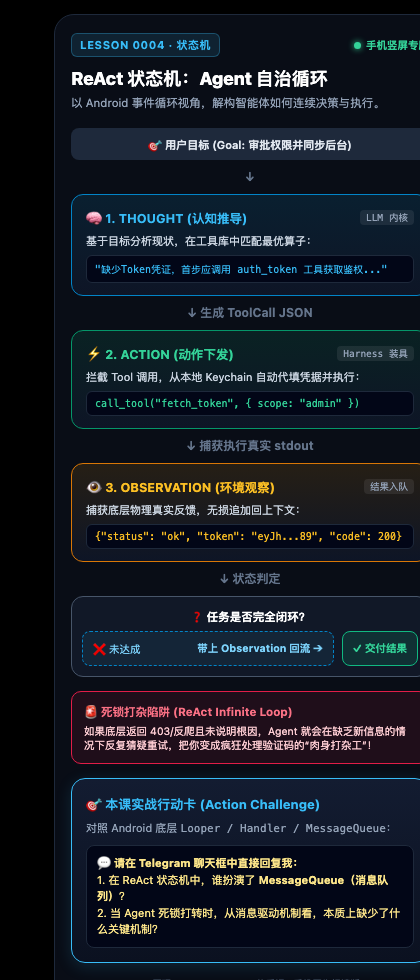
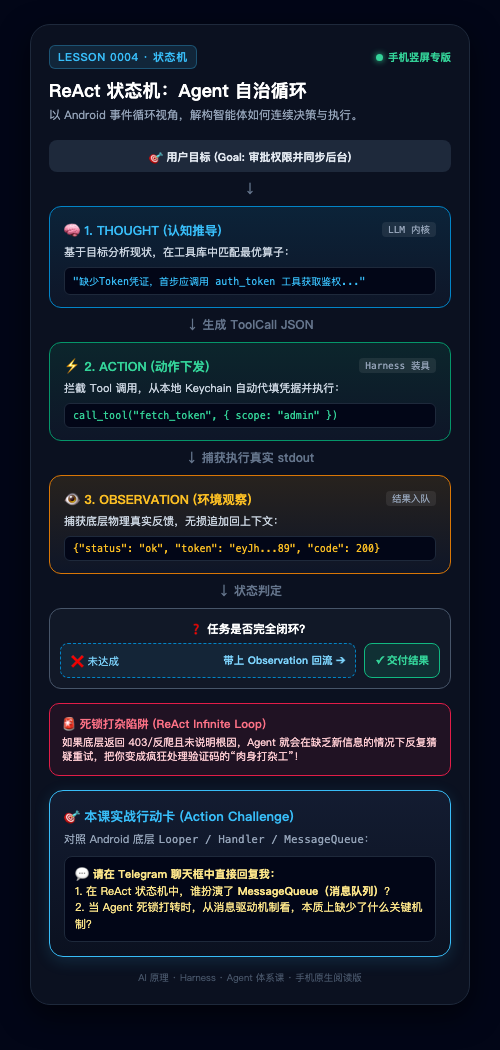
fix mobile card right padding and viewport margins

diff --git a/posters/0004-react-mobile.html b/posters/0004-react-mobile.html
@@ -6,20 +6,24 @@
   <link href="https://fonts.googleapis.com/css2?family=JetBrains+Mono:wght@400;500;600;700&display=swap" rel="stylesheet">
   <style>
     * { margin: 0; padding: 0; box-sizing: border-box; }
-    body {
-      background: #000000;
-      font-family: -apple-system, BlinkMacSystemFont, "SF Pro Text", "Segoe UI", Roboto, sans-serif;
-      color: #f8fafc;
-      width: 420px;
+    html, body {
+      background: #020617;
+      margin: 0;
+      padding: 0;
+      width: 100%;
+    }
+    .wrapper {
+      padding: 24px 20px 30px;
+      max-width: 480px;
       margin: 0 auto;
-      padding: 14px;
     }
     .mobile-card {
-      background: #090d16;
+      background: #0b1120;
       border: 1.5px solid #1e293b;
       border-radius: 20px;
-      padding: 18px 16px;
-      box-shadow: 0 10px 30px rgba(0,0,0,0.8);
+      padding: 20px 18px;
+      box-shadow: 0 10px 30px rgba(0,0,0,0.6);
+      width: 100%;
     }
     .top-bar {
       display: flex;
@@ -231,7 +235,8 @@
   </style>
 </head>
 <body>
-  <div class="mobile-card">
+  <div class="wrapper">
+    <div class="mobile-card">
     <div class="top-bar">
       <span class="tag">LESSON 0004 · 状态机</span>
       <span class="pulse">手机竖屏专版</span>
@@ -320,5 +325,6 @@
 
     <div class="footer-note">AI 原理 · Harness · Agent 体系课 · 手机原生阅读版</div>
   </div>
+</div>
 </body>
 </html>
